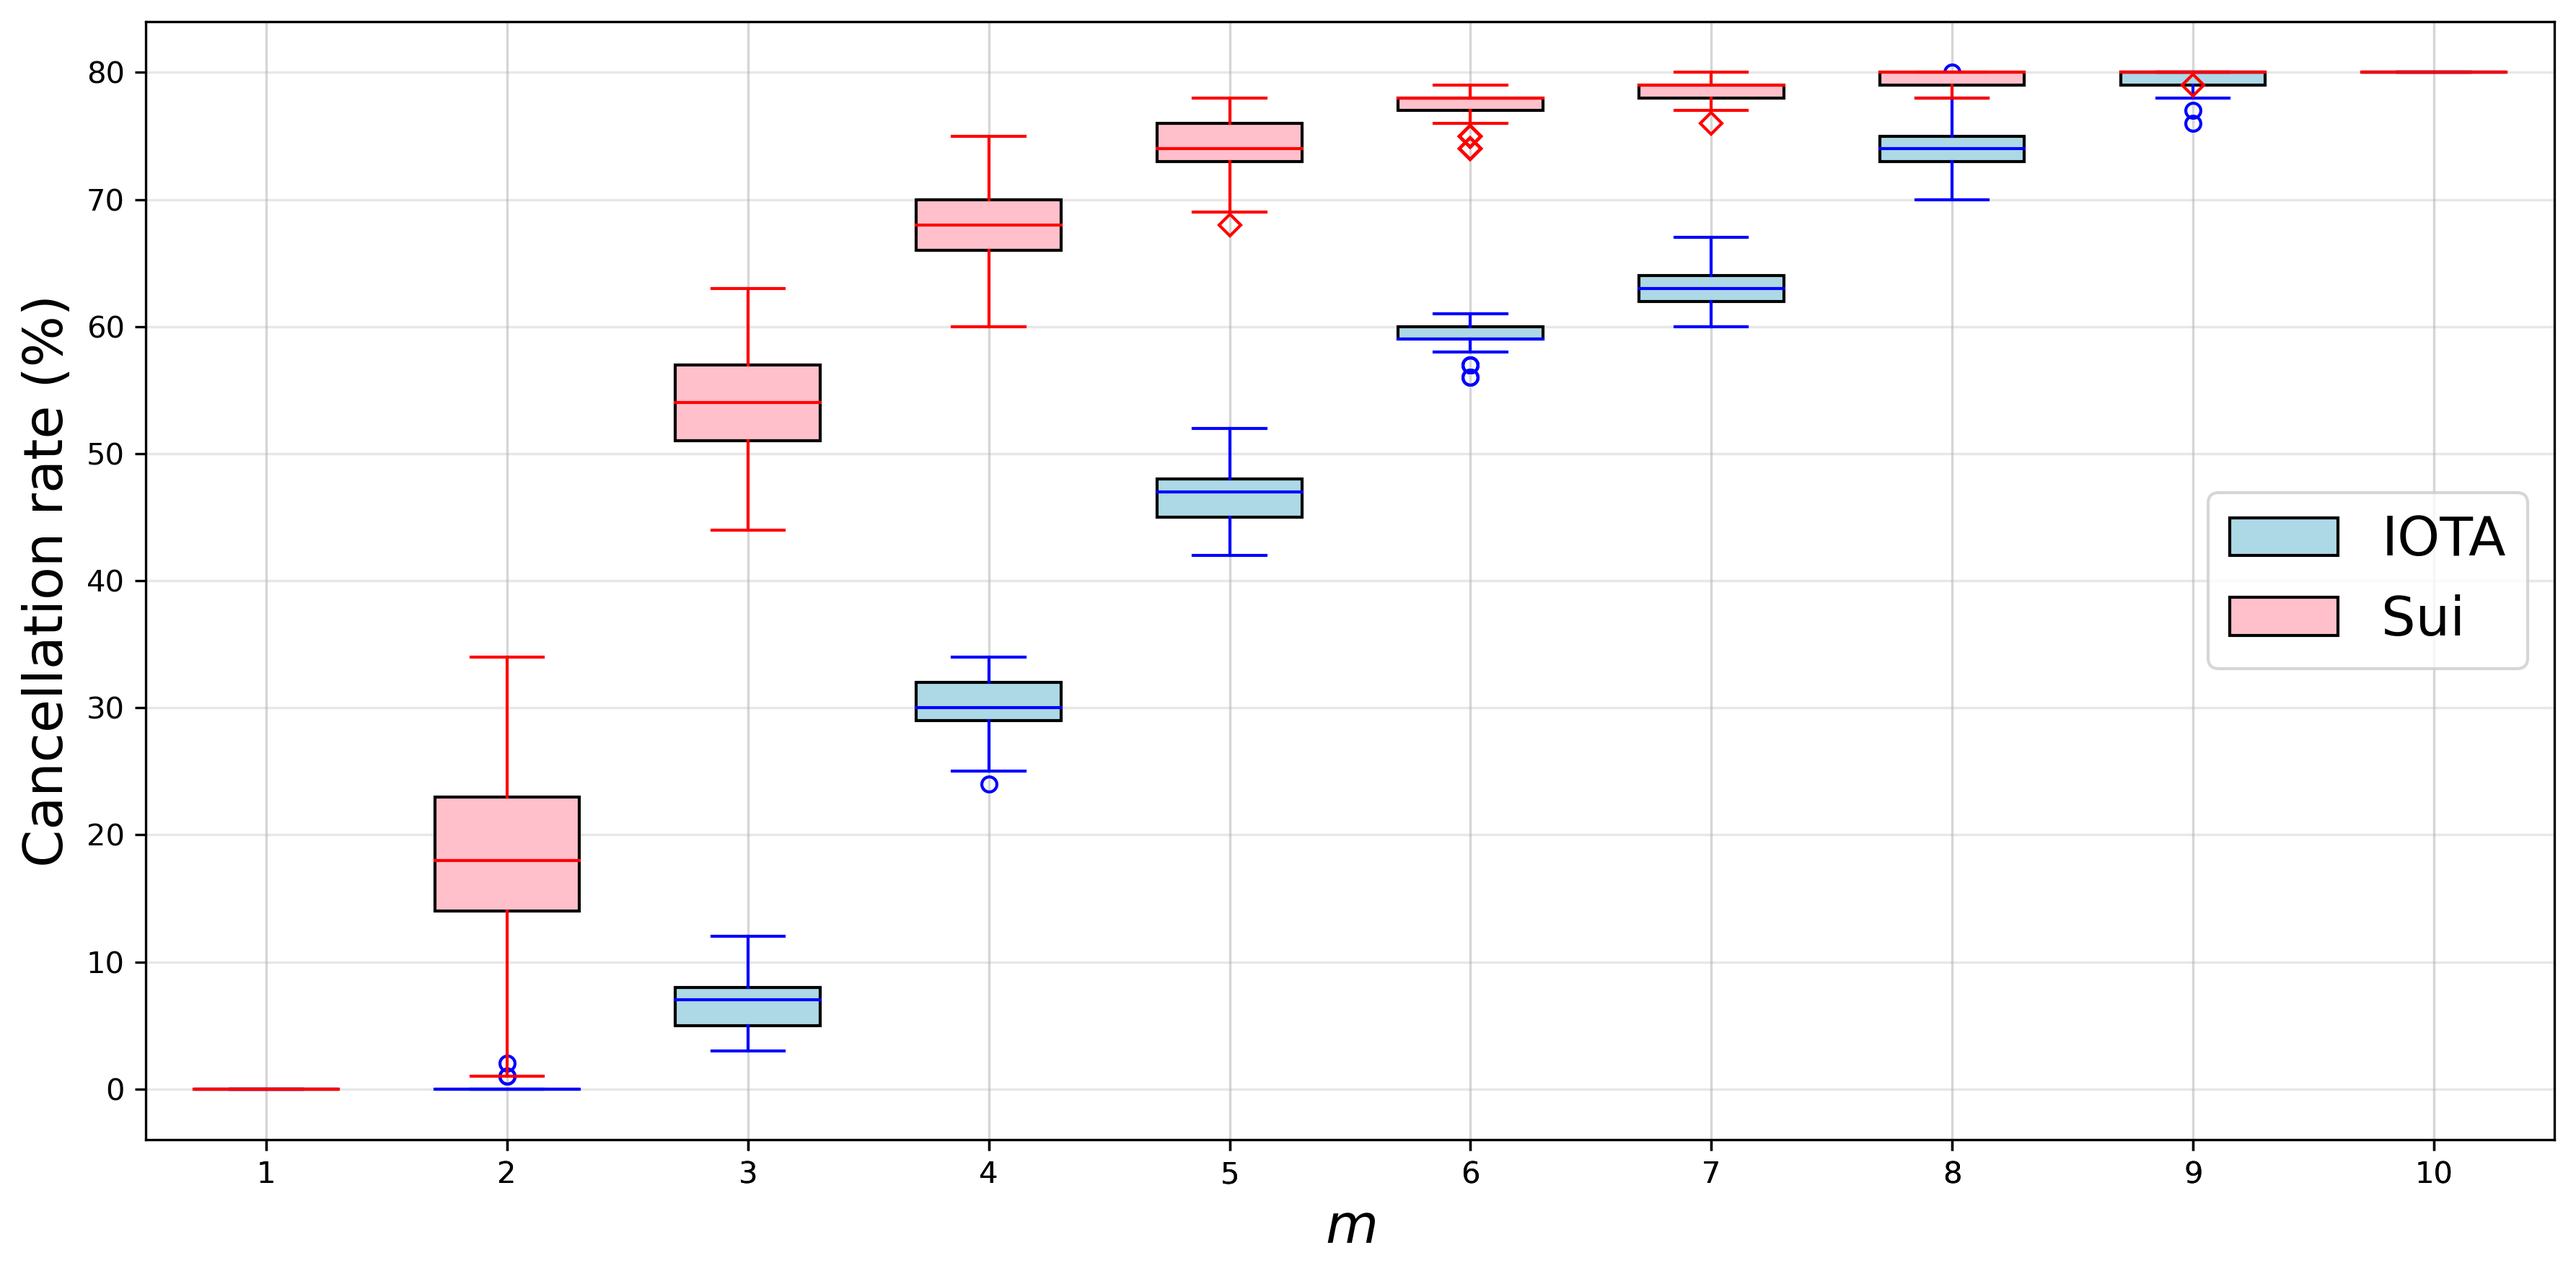
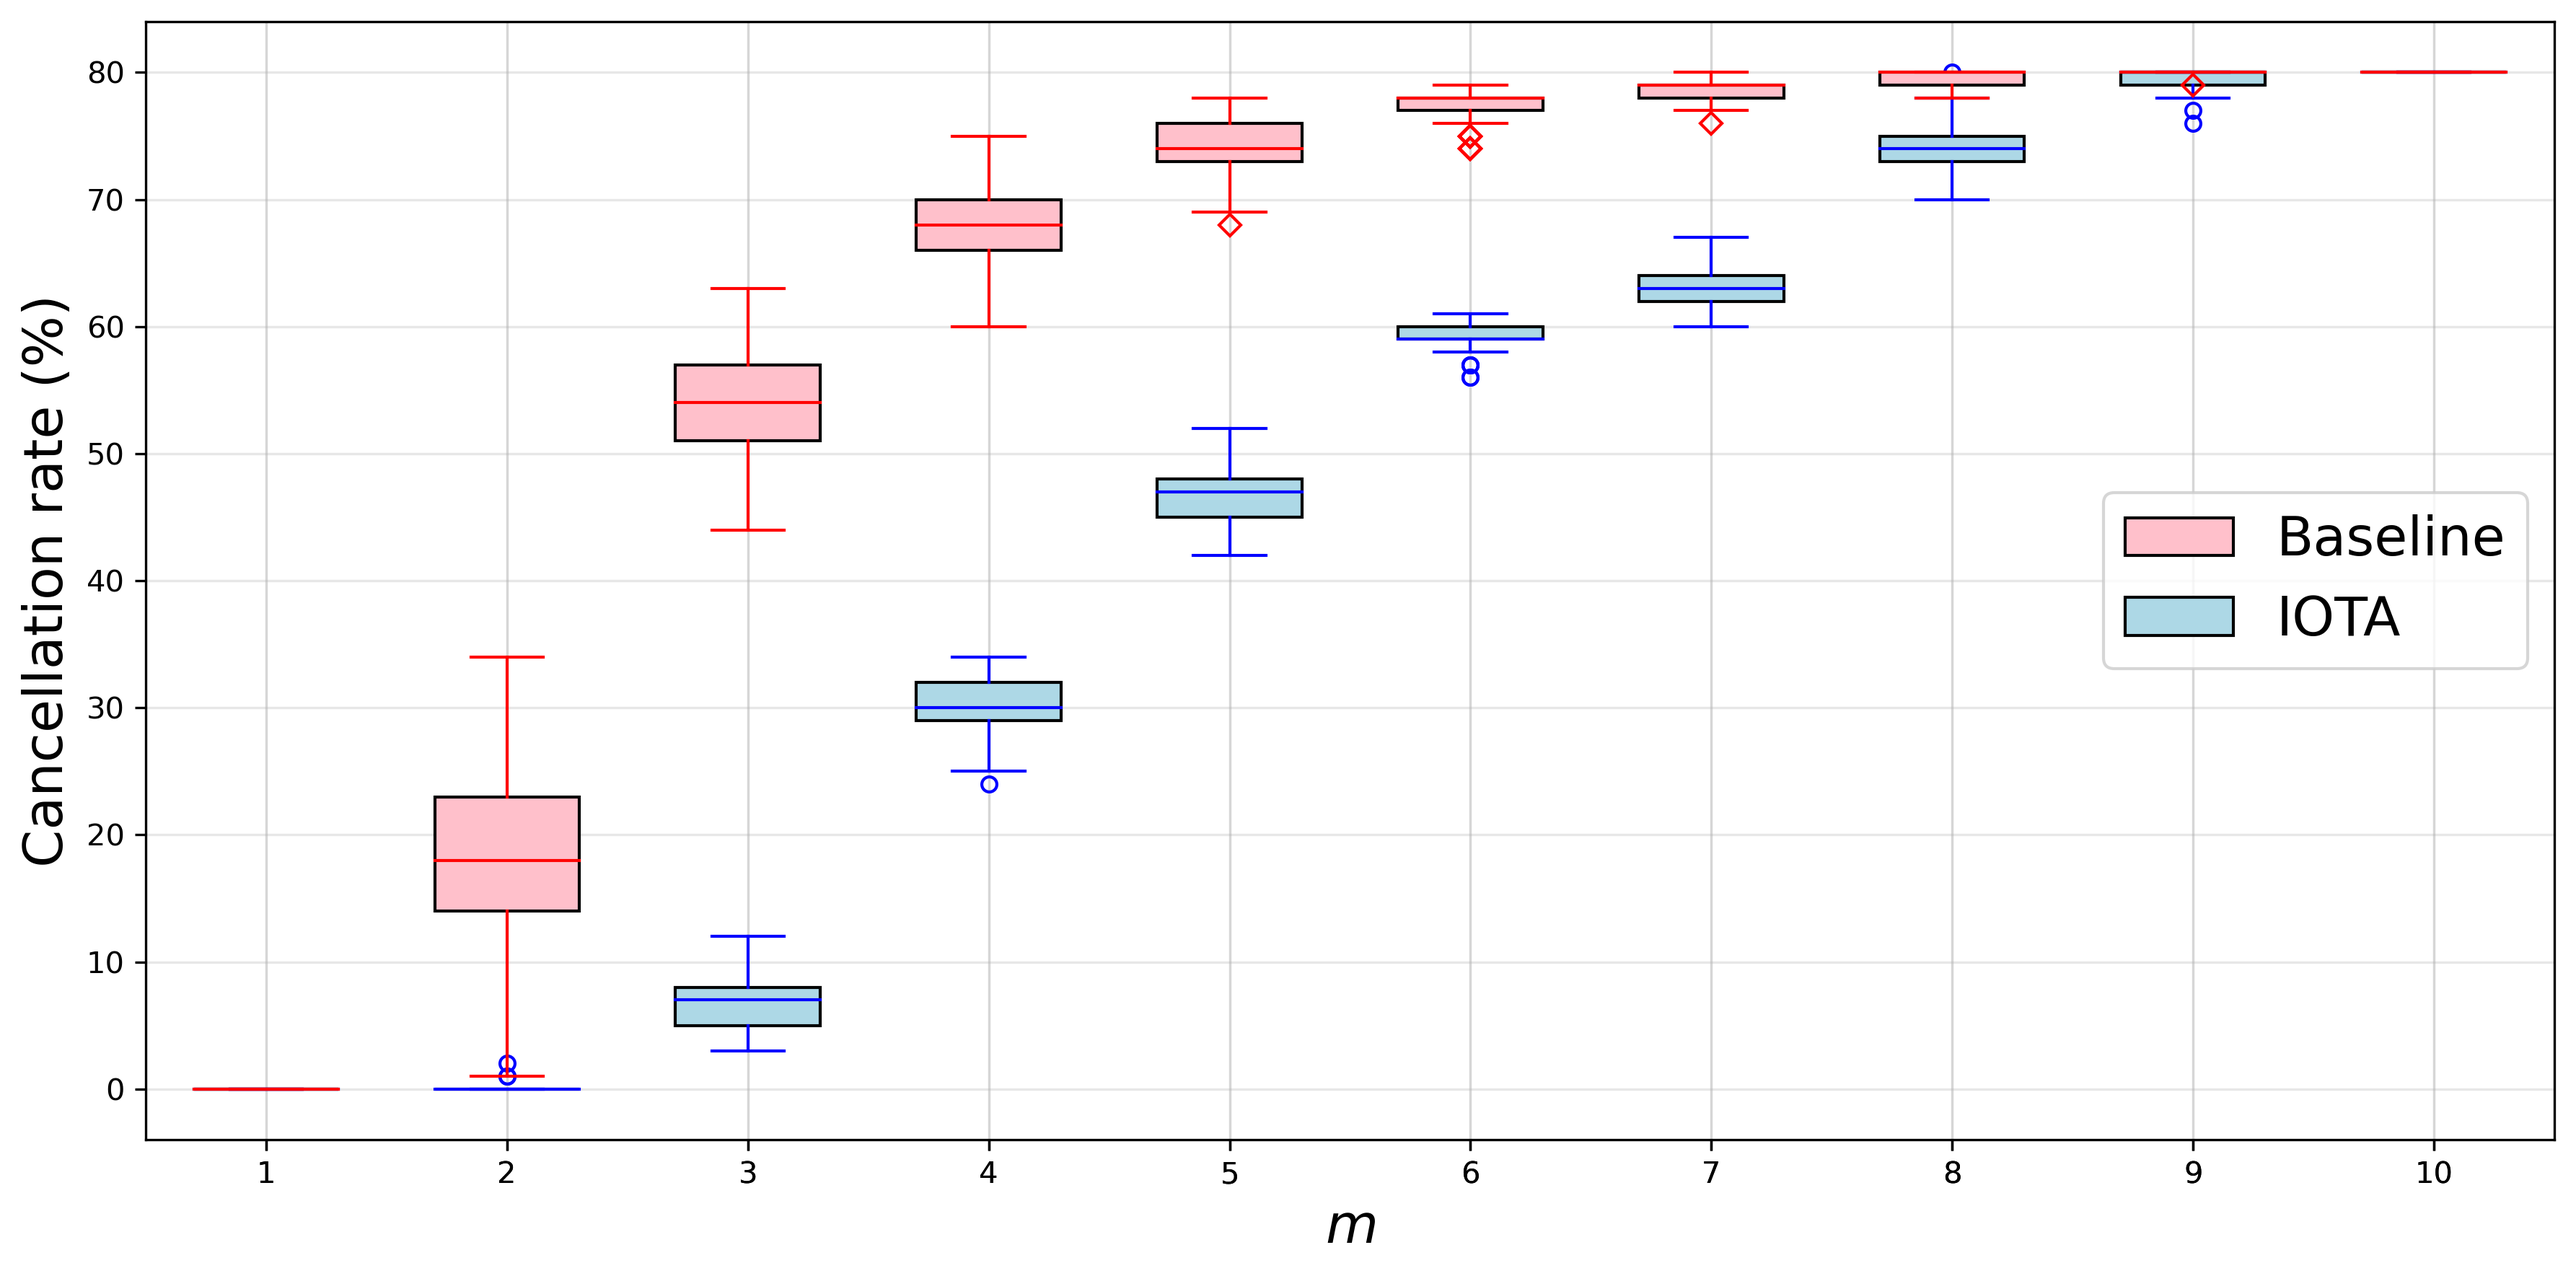
plots

Changed region(s): [[0.8082, 0.4664, 0.9636, 0.5285], [0.8082, 0.4042, 0.9947, 0.4353]]

diff --git a/crates/iota-core/simulations/plotting.py b/crates/iota-core/simulations/plotting.py
@@ -36,7 +36,7 @@ ax.set_xlabel(r'$m$', fontsize=18)
 ax.set_ylabel('Cancellation rate (%)', fontsize=18)
 ax.grid(True, alpha=0.3)
 
-ax.legend([bp1["boxes"][0], bp2["boxes"][0]], ['IOTA', 'Sui'], loc='right', fontsize=18)
+ax.legend([bp2["boxes"][0],bp1["boxes"][0]], ['Baseline', 'IOTA'], loc='right', fontsize=18)
 
 plt.tight_layout()
     
@@ -66,7 +66,7 @@ bp2 = ax.plot(np.mean(data, axis=0), linestyle='None', marker='D', markerfacecol
 ax.set_xlabel(r'$m$', fontsize=18)
 ax.set_ylabel('Average active workers', fontsize=18)
 ax.grid(True, alpha=0.3)
-ax.legend(['IOTA', 'Sui'], loc='right', fontsize=18)
+ax.legend(['IOTA', 'Baseline'], loc='right', fontsize=18)
 
 plt.tight_layout()
     
@@ -101,7 +101,7 @@ bp2 = ax.boxplot(data, positions=np.arange(1, data.shape[1] + 1), widths=0.6, pa
 ax.set_xlabel(r'$m$', fontsize=18)
 ax.set_ylabel('Number of concurrent workers', fontsize=18)
 ax.grid(True, alpha=0.3)
-ax.legend([bp1["boxes"][0], bp2["boxes"][0]], ['IOTA', 'Sui'], loc='right', fontsize=18)
+ax.legend([bp2["boxes"][0], bp1["boxes"][0]], ['Baseline', 'IOTA'], loc='right', fontsize=18)
 
 plt.tight_layout()
     
